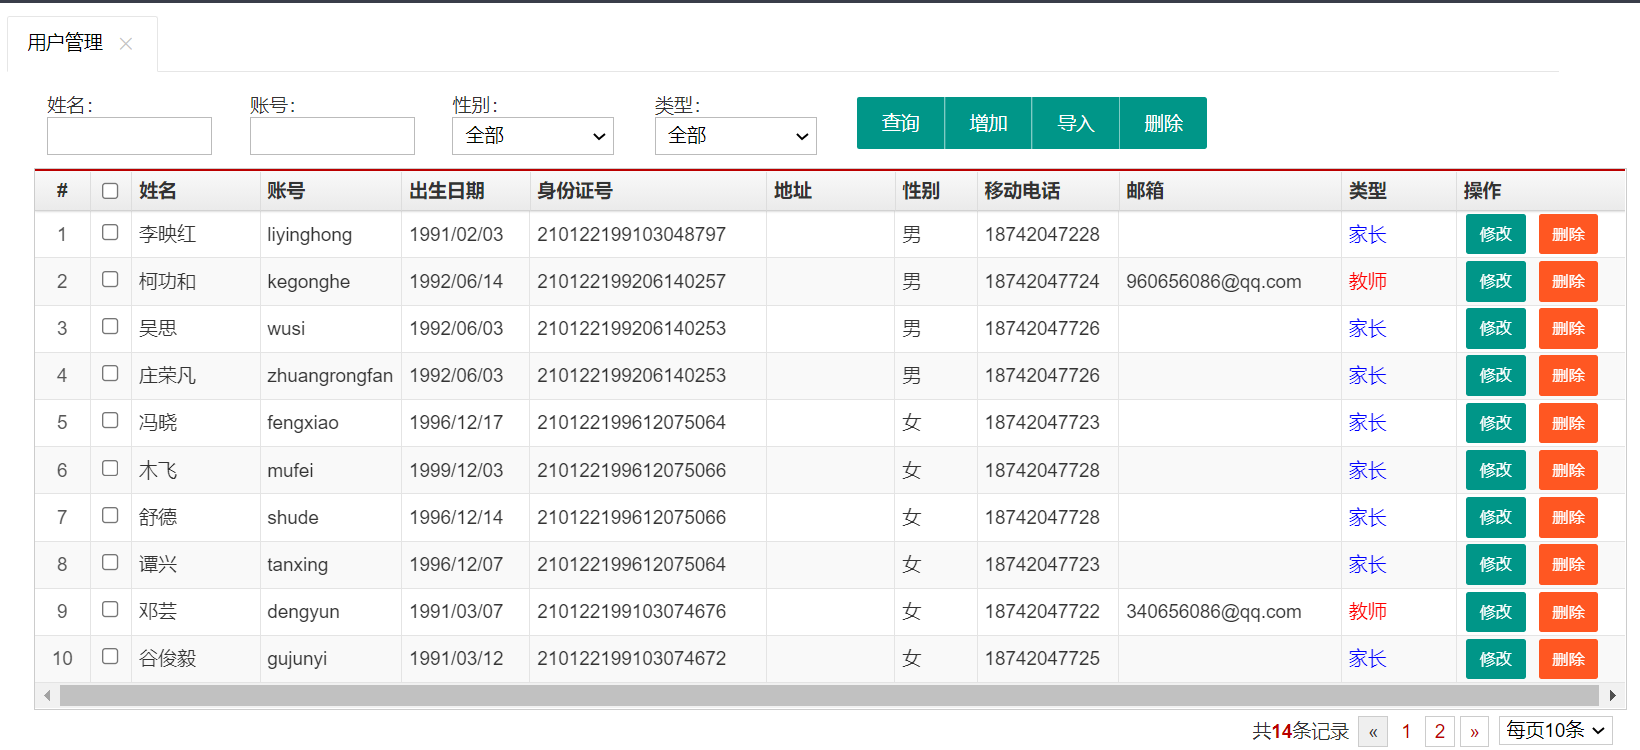
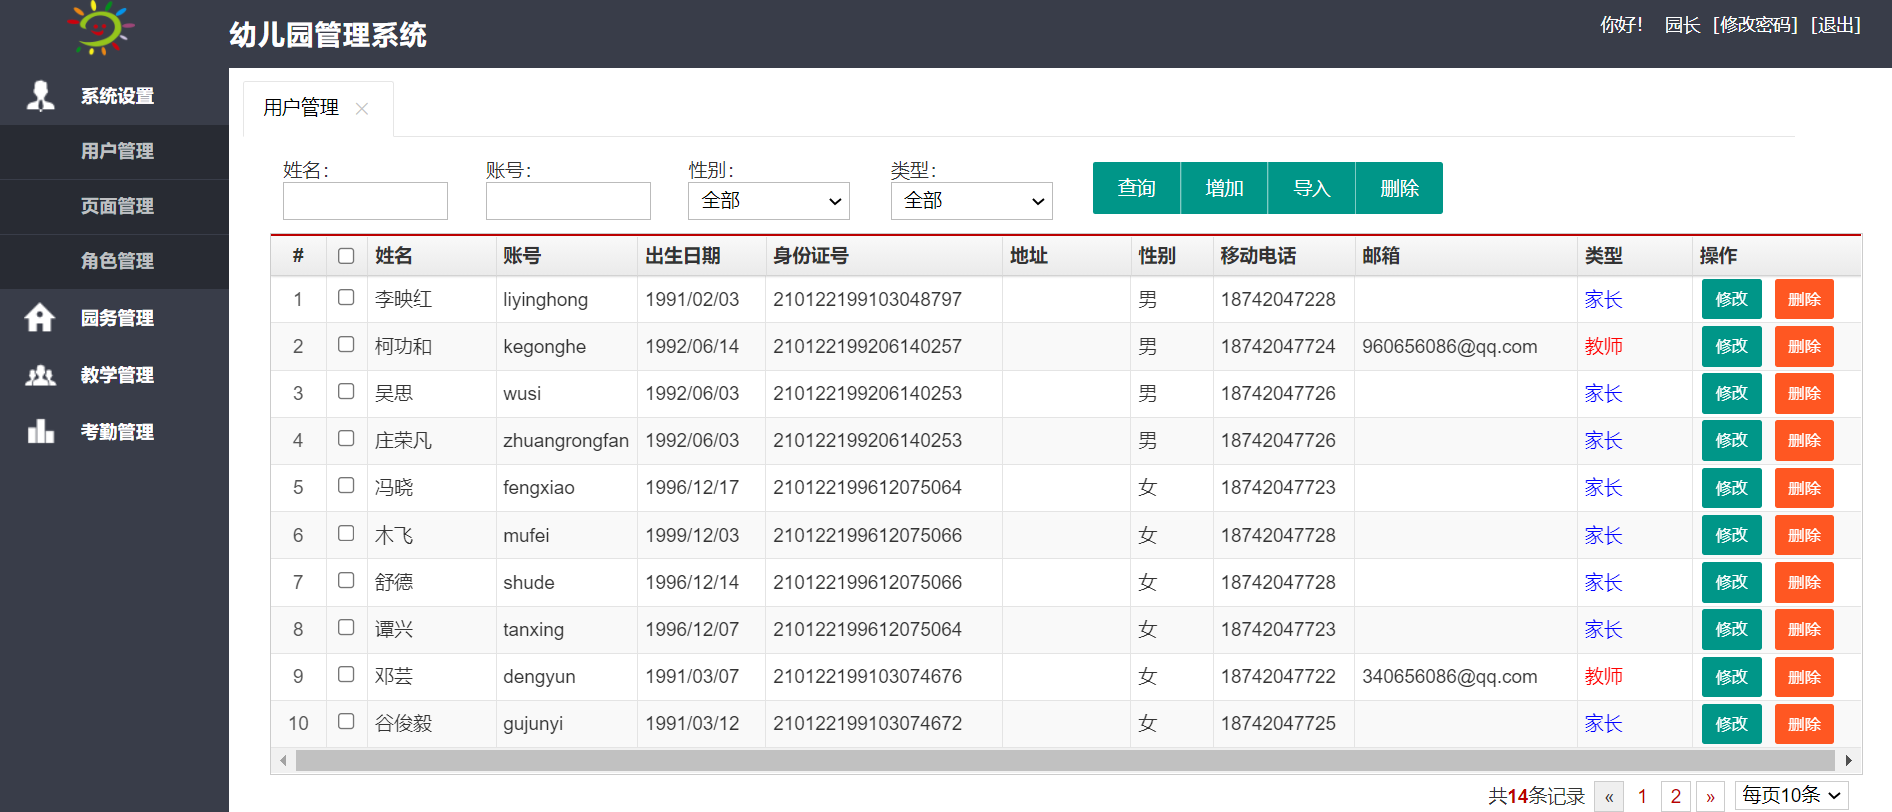
项目展示图片

diff --git a/README.md b/README.md
@@ -27,8 +27,8 @@
 Jdk1.8+IDEA+Maven
 
 #### 界面展示
-![image](result show/1.png)
-
+![image](/result_show/1.png)
+![image](result_show/2.png)
 
 ### 说明
 未经许可 不可用于商用用途
